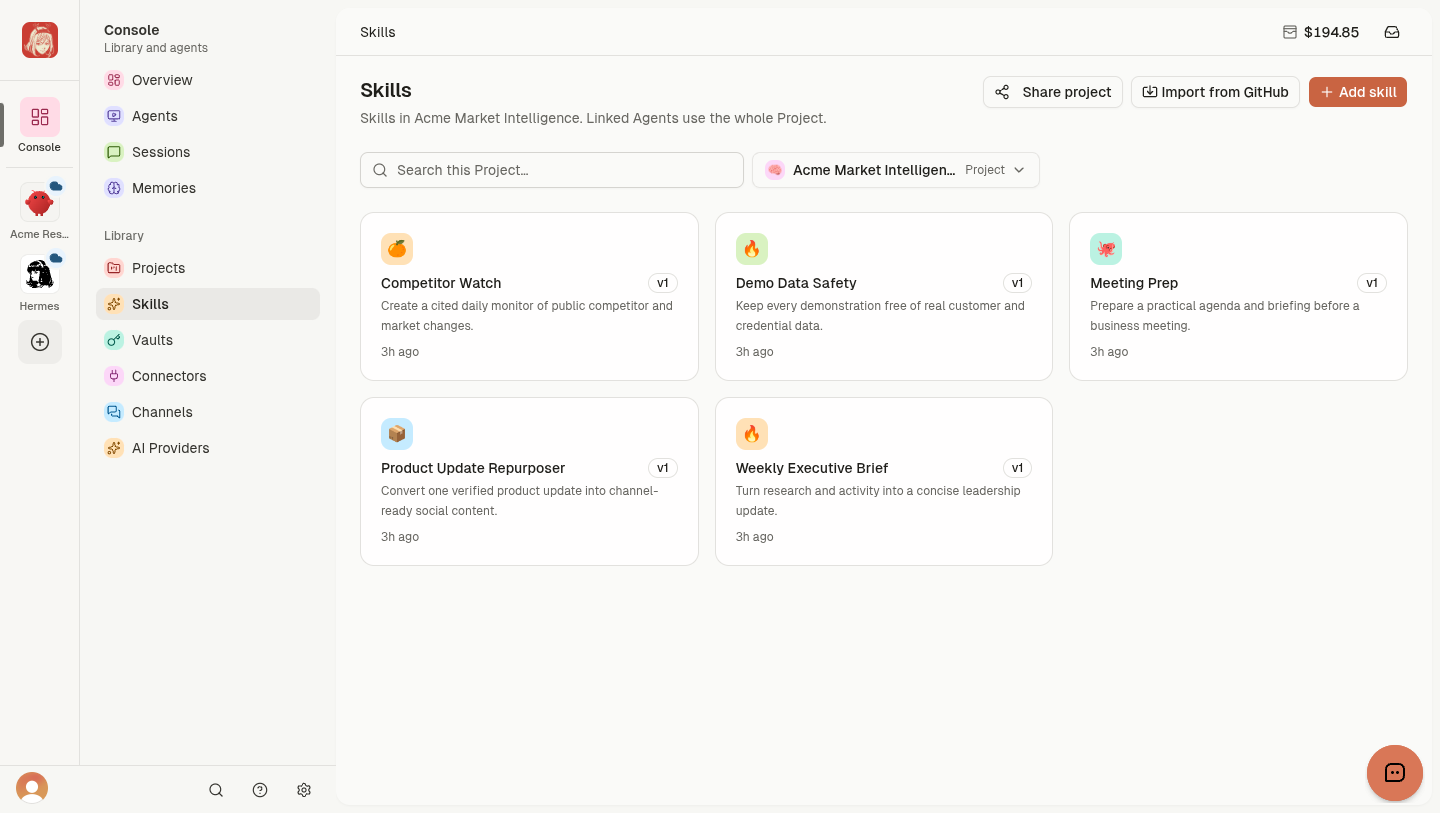
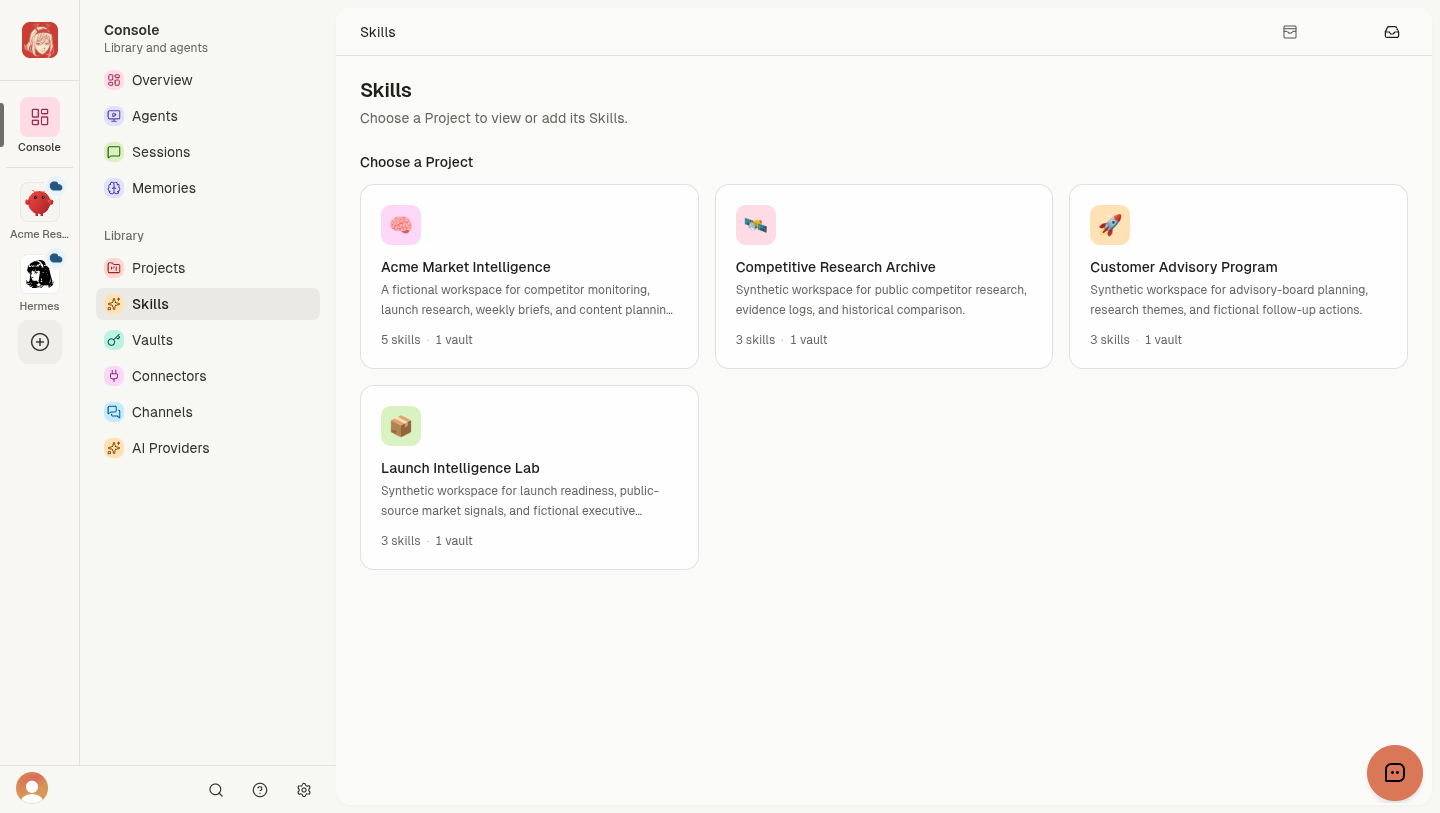
docs: expand synthetic Library examples

diff --git a/docs/clawdi-cloud-product-tour.md b/docs/clawdi-cloud-product-tour.md
@@ -1,10 +1,10 @@
 # Clawdi Cloud product tour
 
 This tour shows the current Clawdi Cloud experience with a synthetic Acme
-Market Intelligence workspace. The demo contains 25 account Memories, five
-Project Skills, 12 Workspace files, a linked Project, and more than 200 Agent
-Sessions spanning 12 months. Names, companies, decisions, and activity are
-fictional.
+Market Intelligence workspace. The demo contains four Projects, 14 Project
+Skills, four empty demonstration Vaults, 25 account Memories, 12 Workspace
+files, and more than 200 Agent Sessions spanning 12 months. Names, companies,
+decisions, and activity are fictional.
 
 For task-by-task instructions, use the canonical [Clawdi
 Docs](https://docs.clawdi.ai). Start with the [Cloud Agent
@@ -46,7 +46,7 @@ A Project groups Project Skills and Vault access. Linking one to an Agent is
 an explicit action, which makes the selected resources available without
 changing Project ownership.
 
-![The Acme Market Intelligence Project linked to a Hermes Cloud Agent](images/cloud-projects.png)
+![Four synthetic Projects covering market intelligence, competitive research, customer advisory work, and launch intelligence](images/cloud-projects.png)
 
 Read [Projects and
 sharing](https://docs.clawdi.ai/guides/projects-and-sharing) before attaching
@@ -58,10 +58,37 @@ Project Skills are Cloud-owned reusable instructions. Agent Skills remain
 authoritative in the Agent software's guarded filesystem and appear in the
 Cloud dashboard as a read-only inventory.
 
-![Five synthetic Project Skills for research, meeting preparation, executive briefs, content repurposing, and demo data safety](images/cloud-skills.png)
+![Four synthetic Projects containing 14 Project Skills and four attached Vaults](images/cloud-skills.png)
 
 The [Skills guide](https://docs.clawdi.ai/guides/skills) covers both locations,
 copying, explicit imports, and safe review of third-party Skills.
+
+## Scope sensitive configuration with Vaults
+
+Vault access follows Project boundaries. The demo uses four empty Vaults to
+show the attachment model while keeping the public workspace free of API keys,
+tokens, and private configuration values.
+
+![Four empty synthetic Vaults attached to four demo Projects](images/cloud-vaults.png)
+
+Add real values only through the authorized Vault interface and attach each
+Vault to the Projects that need it. See [Projects and
+sharing](https://docs.clawdi.ai/guides/projects-and-sharing) for the access
+model.
+
+## Review credential-free Connector tools
+
+Some Connector toolkits are ready without account authorization. The demo
+verified Code Interpreter, Hacker News, and Composio Search; Code Interpreter
+exposes five sandbox and file tools. The Overview Connector total counts
+authorized external accounts, so account-free toolkits keep that total at
+zero.
+
+![Code Interpreter ready with five tools and no account connection required](images/cloud-connector-codeinterpreter.png)
+
+Use the [connect-an-app
+workflow](https://docs.clawdi.ai/guides/workflows/connect-an-app) for tool review,
+account authorization, and readiness checks.
 
 ## Keep durable account context
 
